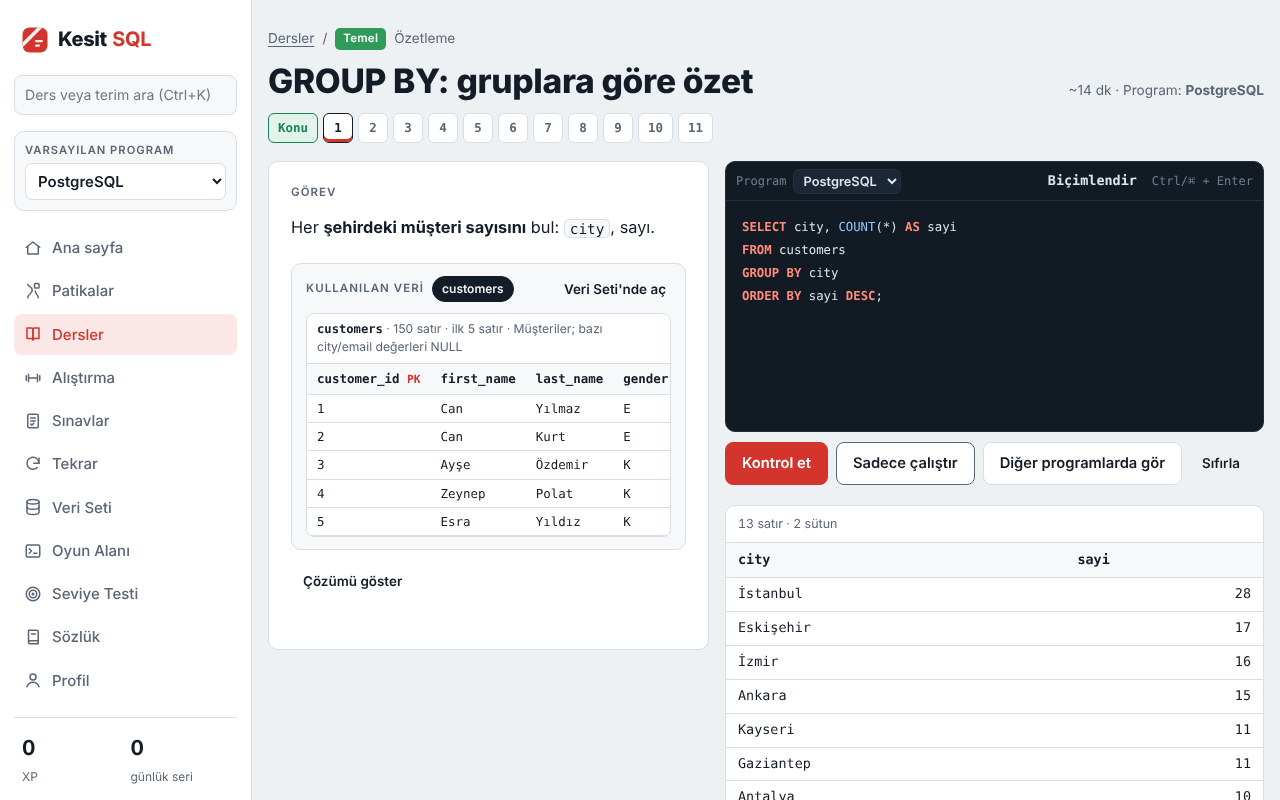
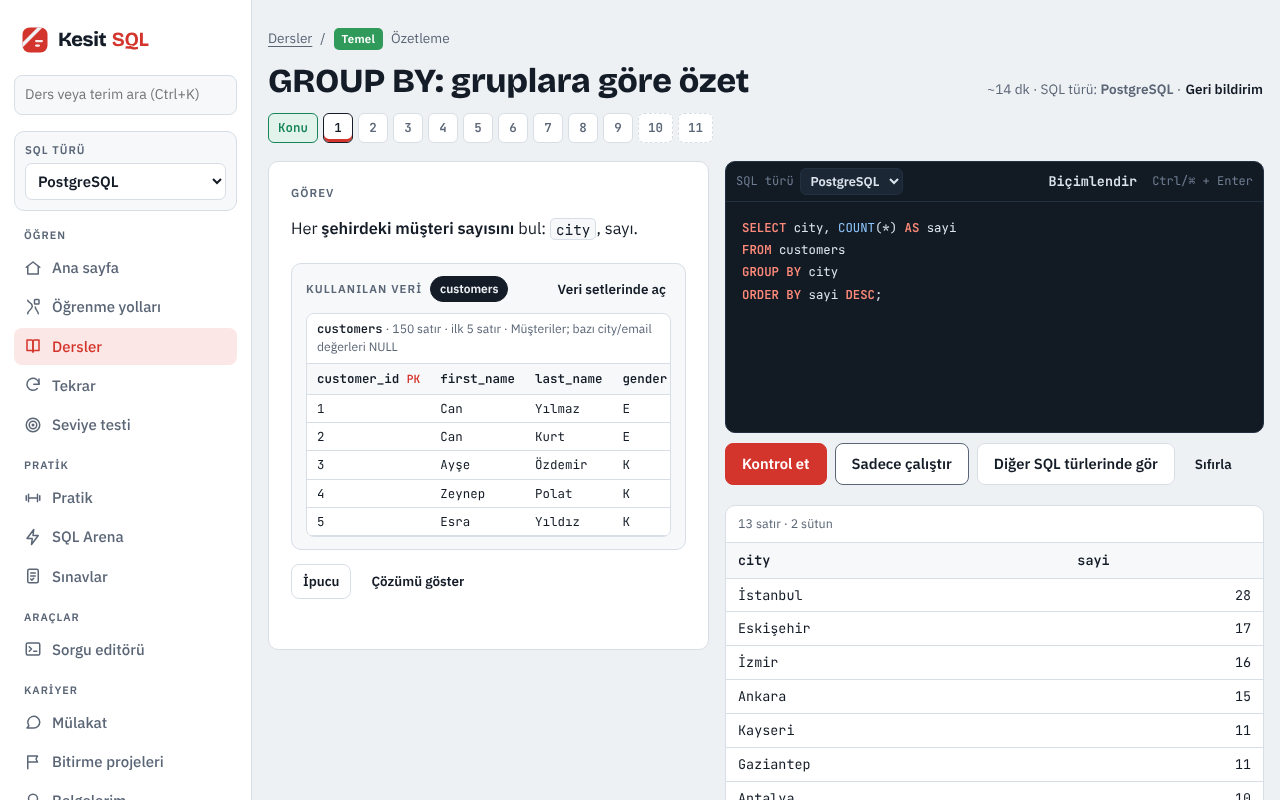
Önkoşul taraması, rol yollarında sıra, belgeler, önizleme görseli
Claude-Session: https://claude.ai/code/session_01QKvCnvJaSdDy8Dhz4aZJbE

diff --git a/index.html b/index.html
@@ -31,7 +31,7 @@
 <meta name="claude:viewport-fit-sides" content="cover">
 <link rel="stylesheet" href="vendor/fonts.css">
 <style>
-/* Düzen: solda patika (navigasyon + SQL türü seçimi), sağda çalışma alanı; telefonda alt sekme çubuğu.
+/* Düzen: solda menü (gezinme + SQL türü seçimi), sağda çalışma alanı; telefonda alt sekme çubuğu.
    Kimlik: Likya Yolu işaret boyası (kırmızı-beyaz şerit); seviyeler Temel → Orta → İleri tırmanış. */
 :root{
   --bg:#EEF1F4; --surface:#FFFFFF; --surface-2:#F6F8FA; --ink:#141C27; --muted:#5A6576; --line:#D8DEE6;
@@ -117,6 +117,8 @@ p code, li code, td code, .q code{background:var(--surface-2); border:1px solid 
 .adv-note{font-size:.85rem; color:var(--muted); border-left:3px solid var(--warn); padding:6px 10px; background:var(--warn-soft); border-radius:0 8px 8px 0}
 .steps button.adv{border-style:dashed}
 #main:focus{outline:none}
+.legal-foot{max-width:1100px; margin:28px auto 8px; padding:0 20px 8px; font-size:.75rem; color:var(--muted)}
+@media (max-width:860px){.legal-foot{padding-bottom:72px}}
 .side-stats{margin-top:auto; border-top:1px solid var(--line); padding:14px 8px 0; display:grid; grid-template-columns:1fr 1fr; gap:10px}
 .stat b{display:block; font-family:var(--f-display); font-size:1.3rem; font-variant-numeric:tabular-nums}
 .stat span{font-size:.75rem; color:var(--muted)}
@@ -659,7 +661,7 @@ const lastSet = r => r && r.sets && r.sets.length ? r.sets[r.sets.length-1] : nu
 
 /* ---------- Yardımcılar ---------- */
 const $ = (s,el=document)=>el.querySelector(s);
-const num = n => Number(n).toLocaleString('tr-TR');
+const num = n => isNaN(n) ? String(n) : Number(n).toLocaleString('tr-TR');
 const esc = s => String(s).replace(/[&<>"]/g, c=>({'&':'&amp;','<':'&lt;','>':'&gt;','"':'&quot;'}[c]));
 const KW = new Set(('SELECT FROM WHERE AND OR NOT IN IS NULL AS ON JOIN INNER LEFT RIGHT FULL OUTER CROSS NATURAL USING GROUP BY ORDER HAVING LIMIT OFFSET DISTINCT UNION ALL INTERSECT EXCEPT MINUS CASE WHEN THEN ELSE END WITH RECURSIVE OVER PARTITION ROWS RANGE GROUPS BETWEEN PRECEDING FOLLOWING UNBOUNDED CURRENT ROW INSERT INTO VALUES UPDATE SET DELETE CREATE TABLE VIEW INDEX TRIGGER DROP ALTER ADD COLUMN RENAME TO PRIMARY KEY FOREIGN REFERENCES UNIQUE CHECK DEFAULT BEGIN COMMIT ROLLBACK TRANSACTION TRAN EXISTS LIKE ILIKE GLOB ASC DESC CAST INTEGER INT TEXT REAL NUMERIC BLOB VARCHAR NVARCHAR VARCHAR2 CHAR DATE DATETIME DATETIME2 TIMESTAMP DECIMAL NUMBER FLOAT BIT BOOLEAN IF REPLACE CONFLICT DO NOTHING RETURNING EXPLAIN QUERY PLAN FILTER WINDOW TEMP TEMPORARY AFTER BEFORE INSTEAD OF FOR EACH SAVEPOINT RELEASE GRANT REVOKE VACUUM ANALYZE PRAGMA ESCAPE COLLATE NOCASE TRUE FALSE CASCADE RESTRICT AUTOINCREMENT NULLS FIRST LAST MATERIALIZED SOME ANY TOP TIES PERCENT FETCH NEXT ONLY MERGE MATCHED TARGET SOURCE OUTPUT DECLARE PRINT WHILE BREAK CONTINUE RETURN RETURNS EXEC EXECUTE PROCEDURE PROC FUNCTION TRY CATCH THROW RAISERROR GO PIVOT UNPIVOT APPLY LATERAL ROLLUP CUBE GROUPING SETS INCLUDE CLUSTERED NONCLUSTERED IDENTITY NOLOCK INTERVAL DUAL ROWNUM CONNECT PRIOR START LEVEL WITHIN SEPARATOR DUPLICATE IGNORE DIV SCHEMABINDING NOCOUNT XACT_ABORT ISOLATION READ COMMITTED UNCOMMITTED SNAPSHOT SERIALIZABLE REPEATABLE OUT OR').split(' '));
 function hl(src){
@@ -815,6 +817,7 @@ function render(){
   else if(v==='projeler') main.innerHTML=viewProjeler();
   else if(v==='belgeler') main.innerHTML=viewBelgeler();
   else if(v==='hatalar') main.innerHTML=viewHatalar();
+  main.insertAdjacentHTML('beforeend','<footer class="legal-foot">Kesit SQL ücretsiz bir eğitim projesidir. Veri setleri hayalidir, sertifika denemeleri resmî sınav değildir. Kod MIT, içerik CC BY-NC 4.0. <button class="linkbtn" data-go="hakkinda" style="margin:0;display:inline;padding:0">Hakkında</button></footer>');
   enhance(main);
   if(v==='lesson') mountLesson();
   if(v==='pratiksoru') mountPratik();
@@ -970,7 +973,7 @@ function previewHTML(t, n){
   const cols=COLMETA[t].map(c=>c[0]);
   const r=pgFreshForSchema().exec('SELECT '+cols.map(c=>'"'+c+'"').join(', ')+' FROM '+t+' LIMIT '+(n||6))[0];
   const cnt=pgFreshForSchema().exec('SELECT COUNT(*) FROM '+t)[0].values[0][0];
-  let h='<div class="preview"><div class="cap"><b style="font-family:var(--f-mono);color:var(--ink)">'+t+'</b> · '+cnt+' satır · ilk '+(n||6)+' satır · '+esc(window.SQLP_SCHEMA_NOTES[t]||'')+'</div><table><thead><tr>'+COLMETA[t].map(c=>'<th title="'+esc(c[2])+'">'+c[0]+(c[3]==='pk'?' <span class="pk">PK</span>':c[3]?' <span class="fk">FK</span>':'')+'</th>').join('')+'</tr></thead><tbody>';
+  let h='<div class="preview"><div class="cap"><b style="font-family:var(--f-mono);color:var(--ink)">'+t+'</b> · '+num(cnt)+' satır · ilk '+(n||6)+' satır · '+esc(window.SQLP_SCHEMA_NOTES[t]||'')+'</div><table><thead><tr>'+COLMETA[t].map(c=>'<th title="'+esc(c[2])+'">'+c[0]+(c[3]==='pk'?' <span class="pk">PK</span>':c[3]?' <span class="fk">FK</span>':'')+'</th>').join('')+'</tr></thead><tbody>';
   (r?r.values:[]).forEach(row=>{ h+='<tr>'+row.map(v=>'<td>'+(v===null?'<i class="muted">NULL</i>':esc(v))+'</td>').join('')+'</tr>'; });
   return h+'</tbody></table></div>';
 }
@@ -1124,7 +1127,7 @@ function afterSolve(l){
 /* ---------- Sonuç gösterimi ---------- */
 function setTable(set, label){
   const max=200, rows=set.values.slice(0,max);
-  let h='<div class="rset"><div class="result-meta"><span class="num">'+(label?label+' · ':'')+set.values.length+' satır · '+set.columns.length+' sütun</span></div><div class="rtable"><table><thead><tr>'+set.columns.map(c=>'<th>'+esc(c)+'</th>').join('')+'</tr></thead><tbody>';
+  let h='<div class="rset"><div class="result-meta"><span class="num">'+(label?label+' · ':'')+num(set.values.length)+' satır · '+set.columns.length+' sütun</span></div><div class="rtable"><table><thead><tr>'+set.columns.map(c=>'<th>'+esc(c)+'</th>').join('')+'</tr></thead><tbody>';
   rows.forEach(row=>{ h+='<tr>'+row.map(v=> v===null?'<td class="null">NULL</td>': typeof v==='number'?'<td class="numc">'+(Number.isInteger(v)?v:Math.round(v*10000)/10000)+'</td>':'<td title="'+esc(v)+'">'+esc(v)+'</td>').join('')+'</tr>'; });
   if(!rows.length) h+='<tr><td class="null" colspan="'+set.columns.length+'">(satır yok)</td></tr>';
   h+='</tbody></table></div>'; if(set.values.length>max) h+='<div class="empty" style="padding:8px">İlk '+max+' satır gösteriliyor.</div>';
@@ -1658,7 +1661,7 @@ function schemaHTML(db, d){
     if(meta) cols=meta.map(c=>[c[0], window.SQLP_TYPE(c[1], d), c[3]]);
     else { const c=db.exec("SELECT name,type,pk FROM pragma_table_info('"+n.replace(/'/g,"''")+"')"); cols=c[0]?c[0].values.map(([cn,ty,pk])=>[cn,ty,pk?'pk':'']):[]; }
     const shown = /^tmp_/.test(n) ? '#'+n.slice(4) : /^tv_/.test(n) ? '@'+n.slice(3) : n;
-    h+='<details><summary>'+esc(shown)+'<span>'+cnt+' satır</span></summary>'+(window.SQLP_SCHEMA_NOTES[n]?'<p>'+esc(window.SQLP_SCHEMA_NOTES[n])+'</p>':'')+'<ul>'+cols.map(([cn,ty,k])=>'<li><span>'+esc(cn)+(k==='pk'?' <span class="pk">PK</span>':k?' <span class="fk">FK</span>':'')+'</span><i>'+esc(ty||'')+'</i></li>').join('')+'</ul></details>'; });
+    h+='<details><summary>'+esc(shown)+'<span>'+num(cnt)+' satır</span></summary>'+(window.SQLP_SCHEMA_NOTES[n]?'<p>'+esc(window.SQLP_SCHEMA_NOTES[n])+'</p>':'')+'<ul>'+cols.map(([cn,ty,k])=>'<li><span>'+esc(cn)+(k==='pk'?' <span class="pk">PK</span>':k?' <span class="fk">FK</span>':'')+'</span><i>'+esc(ty||'')+'</i></li>').join('')+'</ul></details>'; });
   return h+'</div>';
 }
 
@@ -1706,7 +1709,7 @@ function paintDataTable(){
   const t=DS.table, host=$('#dsTable'); if(!host) return; const db=pgFreshForSchema(); const meta=COLMETA[t]; const d=P.dialect; const per=25;
   const cnt=db.exec('SELECT COUNT(*) FROM '+t)[0].values[0][0]; const pages=Math.max(1,Math.ceil(cnt/per)); DS.page=Math.min(DS.page,pages-1);
   const data=db.exec('SELECT * FROM '+t+' LIMIT '+per+' OFFSET '+(DS.page*per))[0];
-  let h='<section class="panel"><div class="result-meta"><span><b style="color:var(--ink);font-family:var(--f-mono);font-size:.95rem">'+t+'</b> · '+cnt+' satır · '+meta.length+' sütun</span><span>'+esc(window.SQLP_SCHEMA_NOTES[t]||'')+'</span></div><div class="coltable"><table><thead><tr><th>Sütun</th><th>'+esc(DNAME[d])+' tipi</th><th>Anahtar</th><th>Açıklama</th></tr></thead><tbody>'+meta.map(c=>'<tr><td>'+c[0]+'</td><td>'+esc(window.SQLP_TYPE(c[1],d))+'</td><td>'+(c[3]==='pk'?'<span class="pk">PK</span>':c[3]?'<span class="fk">FK → '+esc(c[3].slice(3))+'</span>':'')+'</td><td>'+esc(c[2])+'</td></tr>').join('')+'</tbody></table></div>';
+  let h='<section class="panel"><div class="result-meta"><span><b style="color:var(--ink);font-family:var(--f-mono);font-size:.95rem">'+t+'</b> · '+num(cnt)+' satır · '+meta.length+' sütun</span><span>'+esc(window.SQLP_SCHEMA_NOTES[t]||'')+'</span></div><div class="coltable"><table><thead><tr><th>Sütun</th><th>'+esc(DNAME[d])+' tipi</th><th>Anahtar</th><th>Açıklama</th></tr></thead><tbody>'+meta.map(c=>'<tr><td>'+c[0]+'</td><td>'+esc(window.SQLP_TYPE(c[1],d))+'</td><td>'+(c[3]==='pk'?'<span class="pk">PK</span>':c[3]?'<span class="fk">FK → '+esc(c[3].slice(3))+'</span>':'')+'</td><td>'+esc(c[2])+'</td></tr>').join('')+'</tbody></table></div>';
   h+='<div class="row" style="padding:10px 12px;border-top:1px solid var(--line);gap:8px"><button class="btn sm" data-act="ds-ddl">'+(DS.ddl?'CREATE TABLE ifadesini gizle':'CREATE TABLE ifadesini göster ('+esc(DNAME[d])+')')+'</button><button class="btn sm" data-act="ds-play">Oyun alanında sorgula</button></div>'+(DS.ddl?'<div style="padding:0 12px 12px"><div class="codebox" style="margin:0"><pre>'+hl(ddlFor(t,d))+'</pre></div></div>':'')+'</section>';
   h+='<section class="panel result">'+setTable(data||{columns:meta.map(c=>c[0]),values:[]}, 'Veri, sayfa '+(DS.page+1)+' / '+pages)+'<div class="pager2"><button class="btn sm" data-act="ds-prev" '+(DS.page?'':'disabled')+'>Önceki</button><span class="num">'+(DS.page*per+1)+'–'+Math.min(cnt,(DS.page+1)*per)+' / '+cnt+'</span><button class="btn sm" data-act="ds-next" '+(DS.page<pages-1?'':'disabled')+'>Sonraki</button></div></section>';
   host.innerHTML=h;

diff --git a/c6.js b/c6.js
@@ -361,7 +361,7 @@ ORDER BY b.ay;</pre>
   ]
 }, {
   id: 'bi-hazirlik', lv: 'B2', mod: BI, min: 14,
-  title: 'BI aracına veri hazırlamak: tanecik, görünüm ve boyutlar',
+  title: 'BI aracına veri hazırlamak: grain (tanecik), görünüm ve boyutlar',
   sum: 'Power BI / Tableau için olgu (fact) görünümü ve boyut tabloları.',
   body: `
 <h2>Raporu kim çizer, veriyi kim hazırlar?</h2>
@@ -401,7 +401,7 @@ GROUP BY channel;</pre>
 </table>
 `,
   ex: [
-    { t: 'sql', q: '<p>BI aracı için sipariş satırı tanecikli bir görünüm oluştur: <code>v_satis_satir</code>. Sütunlar: <code>order_id</code>, <code>order_date</code>, <code>channel</code>, <code>status</code>, <code>category</code>, <code>urun</code> (ürün adı), <code>quantity</code>, <code>net_tutar</code> (adet × birim fiyat × (1 − indirim), 2 basamak).</p>', sol: `CREATE VIEW v_satis_satir AS SELECT o.order_id, o.order_date, o.channel, o.status, p.category, p.name AS urun, oi.quantity, ROUND(${NET}, 2) AS net_tutar FROM order_items oi JOIN orders o ON o.order_id = oi.order_id JOIN products p ON p.product_id = oi.product_id;`, check: "SELECT COUNT(*) AS satir, ROUND(SUM(net_tutar), 2) AS toplam, COUNT(DISTINCT category) AS kategori, SUM(CASE WHEN urun IS NULL THEN 1 ELSE 0 END) AS adsiz FROM v_satis_satir;", hint: 'CREATE VIEW ad AS SELECT ... üç tabloyu birleştiren bir sorgu.' },
+    { t: 'sql', q: '<p>BI aracı için sipariş satırı düzeyinde bir görünüm oluştur: <code>v_satis_satir</code>. Sütunlar: <code>order_id</code>, <code>order_date</code>, <code>channel</code>, <code>status</code>, <code>category</code>, <code>urun</code> (ürün adı), <code>quantity</code>, <code>net_tutar</code> (adet × birim fiyat × (1 − indirim), 2 basamak).</p>', sol: `CREATE VIEW v_satis_satir AS SELECT o.order_id, o.order_date, o.channel, o.status, p.category, p.name AS urun, oi.quantity, ROUND(${NET}, 2) AS net_tutar FROM order_items oi JOIN orders o ON o.order_id = oi.order_id JOIN products p ON p.product_id = oi.product_id;`, check: "SELECT COUNT(*) AS satir, ROUND(SUM(net_tutar), 2) AS toplam, COUNT(DISTINCT category) AS kategori, SUM(CASE WHEN urun IS NULL THEN 1 ELSE 0 END) AS adsiz FROM v_satis_satir;", hint: 'CREATE VIEW ad AS SELECT ... üç tabloyu birleştiren bir sorgu.' },
     { t: 'sql', q: '<p>Müşteri boyutu hazırla: her müşteri için <code>customer_id</code>, <code>ad_soyad</code> (ad + boşluk + soyad), <code>sehir</code> (boşsa “Bilinmiyor”), <code>segment</code>, <code>ilk_siparis</code> (ilk sipariş tarihi) ve <code>siparis_sayisi</code>. Hiç siparişi olmayan müşteriler de listede olmalı.</p>', sol: "SELECT c.customer_id, c.first_name || ' ' || c.last_name AS ad_soyad, COALESCE(c.city, 'Bilinmiyor') AS sehir, c.segment, MIN(o.order_date) AS ilk_siparis, COUNT(o.order_id) AS siparis_sayisi FROM customers c LEFT JOIN orders o ON o.customer_id = c.customer_id GROUP BY c.customer_id, c.first_name, c.last_name, c.city, c.segment;", hint: 'Siparişi olmayanlar için LEFT JOIN ve COUNT(o.order_id).' },
     mc('<p>BI modeline “iptal oranı” bilgisini nasıl vermek en doğrudur?</p>', ['Her satıra hesaplanmış oran sütunu eklemek', 'İptal sayısını ve toplam sipariş sayısını ayrı ölçüler olarak verip oranı raporda hesaplatmak', 'Oranı metin olarak yazmak', 'Oranı yalnızca toplam satırına yazmak'], 1, 'Oranlar toplanamaz veya ortalaması alınamaz; filtre değiştikçe pay ve paydanın yeniden toplanıp bölünmesi gerekir.')
   ]

diff --git a/c8.js b/c8.js
@@ -47,7 +47,7 @@ const aiLessons = [{
 <table>
 <tr><th>Parça</th><th>Örnek</th></tr>
 <tr><td><b>SQL türü</b></td><td>“SQL Server 2022 için T-SQL yaz.”</td></tr>
-<tr><td><b>Şema</b></td><td>İlgili tabloların CREATE TABLE ifadeleri veya sütun listesi (Veri Seti sayfasından kopyalayabilirsin).</td></tr>
+<tr><td><b>Şema</b></td><td>İlgili tabloların CREATE TABLE ifadeleri veya sütun listesi (Veri setleri sayfasından kopyalayabilirsin).</td></tr>
 <tr><td><b>İş kuralları</b></td><td>“Net ciro = adet × birim fiyat × (1 − indirim). Yalnızca teslim edilen siparişler sayılır.”</td></tr>
 <tr><td><b>Soru</b></td><td>“2024'te kanal bazında aylık net ciroyu bul.”</td></tr>
 <tr><td><b>Çıktı biçimi</b></td><td>“Sütunlar: ay (YYYY-AA), channel, ciro. Aya göre sırala. Açıklama yazma, yalnızca SQL.”</td></tr>
@@ -440,7 +440,7 @@ after('iliskiler', [{
 </ul>
 <h2>Anahtar seçimi</h2>
 <p><b>Doğal anahtar</b> iş dünyasından gelir (TC kimlik, vergi no); <b>vekil anahtar</b> (surrogate) anlamsız bir sayıdır (<code>customer_id</code>). Doğal anahtarlar değişebildiği ve kişisel veri içerebildiği için çoğu tasarımda vekil anahtar + doğal anahtar üzerinde tekil kısıt tercih edilir.</p>
-<div class="tip"><b>Veri Seti sayfası</b>Bu uygulamanın Veri Seti sayfasındaki şema, Anadolu Market'in ER diyagramıdır. Bir tabloya tıklayıp anahtarlarını incele.</div>
+<div class="tip"><b>Veri setleri sayfası</b>Bu uygulamanın Veri setleri sayfasındaki şema, Anadolu Market'in ER diyagramıdır. Bir tabloya tıklayıp anahtarlarını incele.</div>
 `,
   ex: [
     mc('<p>Bir öğrencinin birden çok derse, bir dersin birden çok öğrenciye sahip olduğu ilişki nasıl tablolanır?</p>', ['Öğrenci tablosuna ders_id sütunu eklenir', 'Ders tablosuna ogrenci_id sütunu eklenir', 'ogrenci_ders gibi bir ara tablo (ogrenci_id, ders_id) oluşturulur', 'Tek tabloda virgülle yazılır'], 2),
@@ -694,7 +694,7 @@ L.push({
   body: `
 <h2>Bol pratik, tek tablo</h2>
 <p>Dil öğrenirken olduğu gibi SQL'de de akıcılık tekrarla gelir. Bu kampta yalnızca <code>customers</code> tablosuyla 10 soru çözeceksin. Her soru bir öncekinden biraz daha zor. Takıldığında ipucuna bak; çözdüğün sorular Tekrar sayfasında yeniden karşına çıkacak.</p>
-<div class="tip"><b>Tablo</b><code>customers</code>: customer_id, first_name, last_name, gender, birth_year, city, email, signup_date, segment. Veri Seti sayfasından inceleyebilirsin.</div>
+<div class="tip"><b>Tablo</b><code>customers</code>: customer_id, first_name, last_name, gender, birth_year, city, email, signup_date, segment. Veri setleri sayfasından inceleyebilirsin.</div>
 `,
   ex: [
     s('İzmir\'de yaşayan müşterilerin adını ve soyadını getir.', "SELECT first_name, last_name FROM customers WHERE city = 'İzmir';"),

diff --git a/araclar/denetim/onkosul.js b/araclar/denetim/onkosul.js
@@ -1,0 +1,8 @@
+// Önkoşul taraması: her öğrenme yolunda, alıştırma çözümünün kullandığı yapı o yapıyı anlatan dersten önce geliyor mu?
+// "İleri görev" (e.adv) işaretli alıştırmalar sayılmaz. Çalıştırma: node onkosul.js
+const c=require('./load.js'); const M=Object.fromEntries(c.SQLP_LESSONS.map(l=>[l.id,l]));
+const strip=s=>String(s||'').replace(/--.*$/gm,' ').replace(/'[^']*'/g,"''");
+const C=[['JOIN',/\bJOIN\b/i,['inner-join','hv-join']],['LEFT JOIN',/\bLEFT\s+(OUTER\s+)?JOIN\b/i,['left-join']],['GROUP BY',/\bGROUP\s+BY\b/i,['group-by','hv-ozet']],['HAVING',/\bHAVING\b/i,['having']],['CASE',/\bCASE\s+WHEN\b/i,['case']],['OVER',/\bOVER\s*\(/i,['window-intro','hv-pencere']],['CTE',/^\s*WITH\s+\w+\s+AS\s*\(/im,['cte','hv-alt']],['ROWS',/\b(ROWS|RANGE)\s+(BETWEEN|UNBOUNDED|\d)/i,['frames','pencere-cerceve']],['LAG/LEAD',/\b(LAG|LEAD)\s*\(/i,['lag-lead','hv-pencere']],['RANK',/\b(ROW_NUMBER|DENSE_RANK|RANK)\s*\(/i,['ranking','window-intro','hv-pencere']],['alt sorgu',/\(\s*SELECT\b/i,['subquery','hv-alt']],['EXISTS',/\bEXISTS\s*\(/i,['correlated','exists-anyall','subquery','hv-alt']],['UNION',/\bUNION\b/i,['set-ops']]];
+let top=0; for(const p of c.SQLP_PATHS){ const idx={}; p.lessons.forEach((x,i)=>idx[x]=i); const out={}; p.lessons.forEach((id,i)=>{ const l=M[id]; if(!l) return; const sols=(l.ex||[]).filter(e=>!e.adv).map(e=>strip(e.sol)).join('\n'); for(const [n,re,te] of C){ if(te.includes(id)) continue; const ti=Math.min(...te.map(t=>idx[t]===undefined?1e9:idx[t])); if(re.test(sols)&&i<ti){ (out[n]=out[n]||[]).push(id+'#'+(i+1)); } } });
+  const k=Object.keys(out); const n=k.reduce((a,x)=>a+out[x].length,0); top+=n; console.log(p.id.padEnd(14),n, k.map(x=>x+': '+out[x].slice(0,4).join(' ')).join(' | ')); }
+console.log('toplam',top);

diff --git a/c1.js b/c1.js
@@ -68,7 +68,7 @@
 <tr><td><code>employees</code>, <code>departments</code></td><td>Çalışanlar ve departmanlar</td></tr>
 <tr><td><code>web_events</code>, <code>ab_test</code></td><td>Web sitesi olayları ve A/B testi (analitik dersleri için)</td></tr>
 </table>
-<p>Tüm tabloları, sütunlarını ve verinin kendisini <b>Veri Seti</b> sayfasında inceleyebilirsin. Bir tablonun tamamını görmek için aşağıdaki sorguyu çalıştır. Kod kutularındaki <b>Çalıştır</b> düğmesi sorguyu gerçek veritabanında çalıştırır.</p>
+<p>Tüm tabloları, sütunlarını ve verinin kendisini <b>Veri setleri</b> sayfasında inceleyebilirsin. Bir tablonun tamamını görmek için aşağıdaki sorguyu çalıştır. Kod kutularındaki <b>Çalıştır</b> düğmesi sorguyu gerçek veritabanında çalıştırır.</p>
 <div class="tip"><b>Hangi SQL türü kullanıyorsun?</b>SQL bir standarttır ama SQL Server, PostgreSQL, MySQL, Oracle, BigQuery ve SQLite onu biraz farklı yazar. Menüden <b>varsayılan SQL türünü</b> seç; tüm kodlar o SQL türünün yazımıyla gösterilir. Bir kod kutusunun üstündeki sekmelerle, varsayılanı değiştirmeden aynı sorgunun başka bir SQL türündeki yazılışını ve çıktısını görebilirsin.</div>
 <pre class="code">SELECT * FROM departments;</pre>
 <div class="tip"><b>SQL komut grupları</b>SQL komutları dört aileye ayrılır: <b>DQL</b> (sorgulama: SELECT), <b>DML</b> (veri değiştirme: INSERT, UPDATE, DELETE), <b>DDL</b> (yapı tanımlama: CREATE, ALTER, DROP), <b>DCL/TCL</b> (yetki ve işlem: GRANT, COMMIT, ROLLBACK). Önce DQL ile başlıyoruz.</div>

diff --git a/c3.js b/c3.js
@@ -460,7 +460,7 @@ ORDER BY d.year, d.quarter;</pre>
 <li><b>ARRAY / STRUCT ve UNNEST</b> (BigQuery): İç içe veri tipleri.</li>
 <li><b>Partition ve clustering</b>: Tabloyu tarihe göre bölüp sadece ilgili bölümleri taramak.</li>
 </ul>
-<div class="tip"><b>Bu uygulamada</b>Her kod kutusunun üstündeki SQL türü sekmeleri ve alıştırmalardaki “Diğer SQL türlerinde gör” düğmesi, bir sorgunun altı SQL türündeki yazılışını ve çıktısını yan yana görmeni sağlar. Bir SQL türünde geçersiz olan sözdizimini (ör. SQL Server'da LIMIT) yazarsan o SQL türünün vereceği hatayı alırsın.</div>
+<div class="tip"><b>Bu uygulamada</b>Her kod kutusunun üstündeki SQL türü sekmeleri ve alıştırmalardaki “Diğer SQL türlerinde gör” düğmesi, bir sorgunun altı SQL türündeki yazılışını ve çıktısını yan yana görmeni sağlar. Bir SQL türünde geçersiz olan sözdizimini (ör. SQL Server'da LIMIT) yazarsan o SQL türünün vereceği hatayı alırsın. Motor SQLite olduğu için her fark yakalanamaz: yazım hataları ve sık anlam hataları (WHERE'de takma ad, gruplanmamış sütun, koşul toplamı, LIKE harf duyarlılığı) denetlenir; karmaşık sorgularda gerçek motorun vereceği hata burada çıkmayabilir.</div>
 <div class="tip"><b>Taşınabilir SQL yazmak</b>Standart fonksiyonları (COALESCE, CASE, CAST, pencere fonksiyonları, CTE) tercih et. Lehçeye özgü fonksiyonları tek bir view veya makroda topla.</div>
 `,
   ex: [

diff --git a/c5.js b/c5.js
@@ -13,7 +13,7 @@ after('veritabani', [{
   sum: 'Tablolara, satır sayılarına ve ilişkilere ilk bakış.',
   body: `
 <h2>Önce veriye bak</h2>
-<p>İyi bir analist sorgu yazmadan önce veriyi tanır: Hangi tablolar var, kaç satır var, hangi sütunlar boş, tablolar birbirine nasıl bağlı? <b>Veri Seti</b> sayfasında tüm tabloların ilişki şemasını, sütunlarını ve verinin kendisini görebilirsin. Burada aynı keşfi SQL ile yapalım.</p>
+<p>İyi bir analist sorgu yazmadan önce veriyi tanır: Hangi tablolar var, kaç satır var, hangi sütunlar boş, tablolar birbirine nasıl bağlı? <b>Veri setleri</b> sayfasında tüm tabloların ilişki şemasını, sütunlarını ve verinin kendisini görebilirsin. Burada aynı keşfi SQL ile yapalım.</p>
 <h3>Her tabloda kaç satır var?</h3>
 <pre class="code">SELECT 'customers' AS tablo, COUNT(*) AS satir FROM customers
 UNION ALL SELECT 'orders', COUNT(*) FROM orders

diff --git a/c18.js b/c18.js
@@ -42,7 +42,7 @@ FROM hv_flights
 WHERE actual_dep IS NULL
 ORDER BY sched_dep
 LIMIT 5;</pre>
-<div class="tip"><b>Önce veriye bak</b>Bir tabloyu ilk kez sorgularken <code>SELECT * ... LIMIT 10</code> ile birkaç satırı incele ve <b>Veri Seti</b> sayfasındaki ilişki şemasına göz at. Hangi sütunun hangi tabloya bağlandığını bilmek sonraki derslerin yarısıdır.</div>
+<div class="tip"><b>Önce veriye bak</b>Bir tabloyu ilk kez sorgularken <code>SELECT * ... LIMIT 10</code> ile birkaç satırı incele ve <b>Veri setleri</b> sayfasındaki ilişki şemasına göz at. Hangi sütunun hangi tabloya bağlandığını bilmek sonraki derslerin yarısıdır.</div>
 `,
   ex: [
     sq('Yurt dışındaki havalimanlarını (<code>country</code> Türkiye olmayanlar) kodu, şehri ve ülkesiyle getir: <code>airport_code</code>, <code>city</code>, <code>country</code>. Ülkeye, eşitlikte koda göre sırala.',

diff --git a/araclar/denetim/icons.js b/araclar/denetim/icons.js
@@ -1,4 +1,4 @@
-const KESIT_BASE=process.env.KESIT_BASE||KESIT_BASE;
+const KESIT_BASE=process.env.KESIT_BASE||'http://localhost:8765';
 const { chromium } = require('playwright'); const fs=require('fs');
 const D=require('./yol.js').ROOT+''; const svg=fs.readFileSync(D+'favicon.svg','utf8');
 const font="@font-face{font-family:'BG';src:url(vendor/fonts/bricolage-grotesque-latin-wght-normal.woff2) format('woff2');font-weight:200 800}@font-face{font-family:'BG';src:url(vendor/fonts/bricolage-grotesque-latin-ext-wght-normal.woff2) format('woff2');font-weight:200 800;unicode-range:U+0100-02BA}@font-face{font-family:'PX';src:url(vendor/fonts/ibm-plex-sans-latin-400-normal.woff2)}@font-face{font-family:'PX';src:url(vendor/fonts/ibm-plex-sans-latin-ext-400-normal.woff2);unicode-range:U+0100-02BA}";

diff --git a/c16.js b/c16.js
@@ -113,7 +113,7 @@ const KAMP = (tablolar, kaliplar) => `
 </ol>
 <h2>Bu kampta en çok kullanacağın kalıplar</h2>
 <table><tr><th>İhtiyaç</th><th>Kalıp</th></tr>${kaliplar.map(k => '<tr><td>' + k[0] + '</td><td><code>' + k[1] + '</code></td></tr>').join('')}</table>
-<div class="note"><b>Tablolar</b>${tablolar} Sütunların açıklamaları ve örnek satırlar Veri Seti sayfasında.</div>
+<div class="note"><b>Tablolar</b>${tablolar} Sütunların açıklamaları ve örnek satırlar Veri setleri sayfasında.</div>
 `;
 more('kamp-musteri', KAMP('Yalnızca <code>customers</code>.', [
   ['Filtre', "WHERE city = 'İzmir' AND gender = 'K'"],

diff --git a/c26.js b/c26.js
@@ -1,7 +1,7 @@
 /* Kesit SQL içerik 26: ikinci kontrol turunda bulunan eksikler
    - çekirdek derslerde en az 5 SQL alıştırması
    - hiç SQL alıştırması olmayan uygulanabilir derslere alıştırma
-   - kalan kısa anlatımlara “Derinleş” bölümü, Veri Seti dersine altı veri seti
+   - kalan kısa anlatımlara “Derinleş” bölümü, Veri setleri dersine altı veri seti
    - küçük kalan alıştırma bankası konularına yeni görevler */
 (function () {
 const L = window.SQLP_LESSONS; const LM = id => L.find(l => l.id === id);
